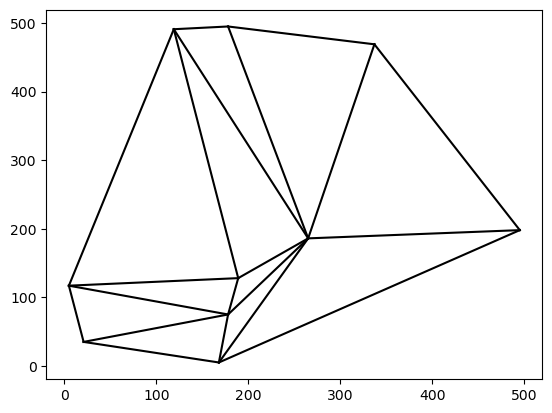
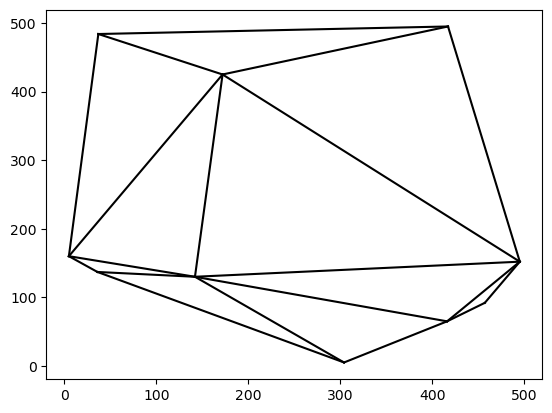
readme

diff --git a/README.md b/README.md
@@ -1,0 +1,3 @@
+## Триангуляция Делонэ
+![img](demo.png)
+![img](demo1.png)
